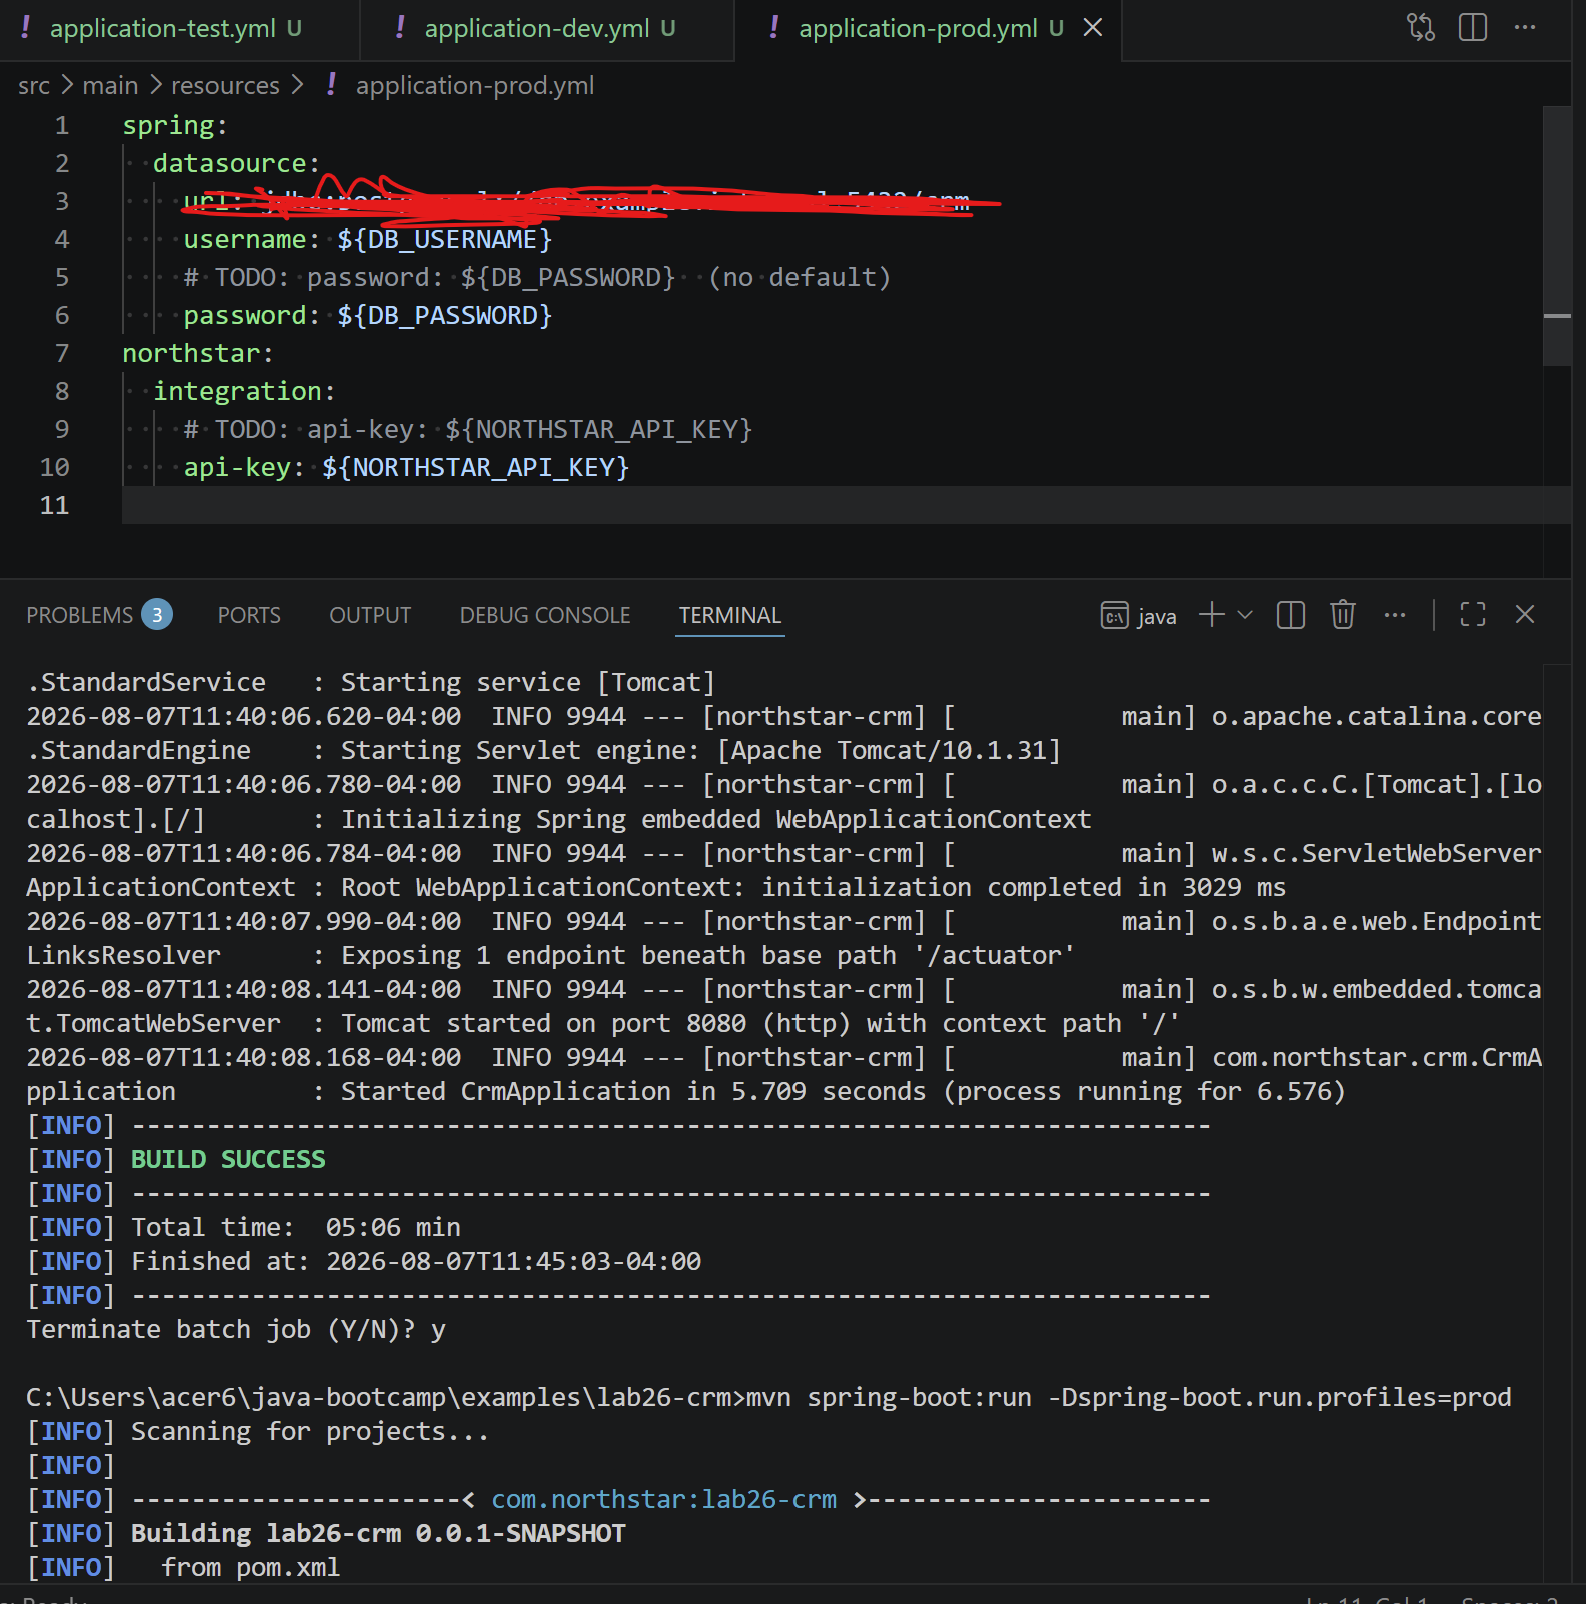
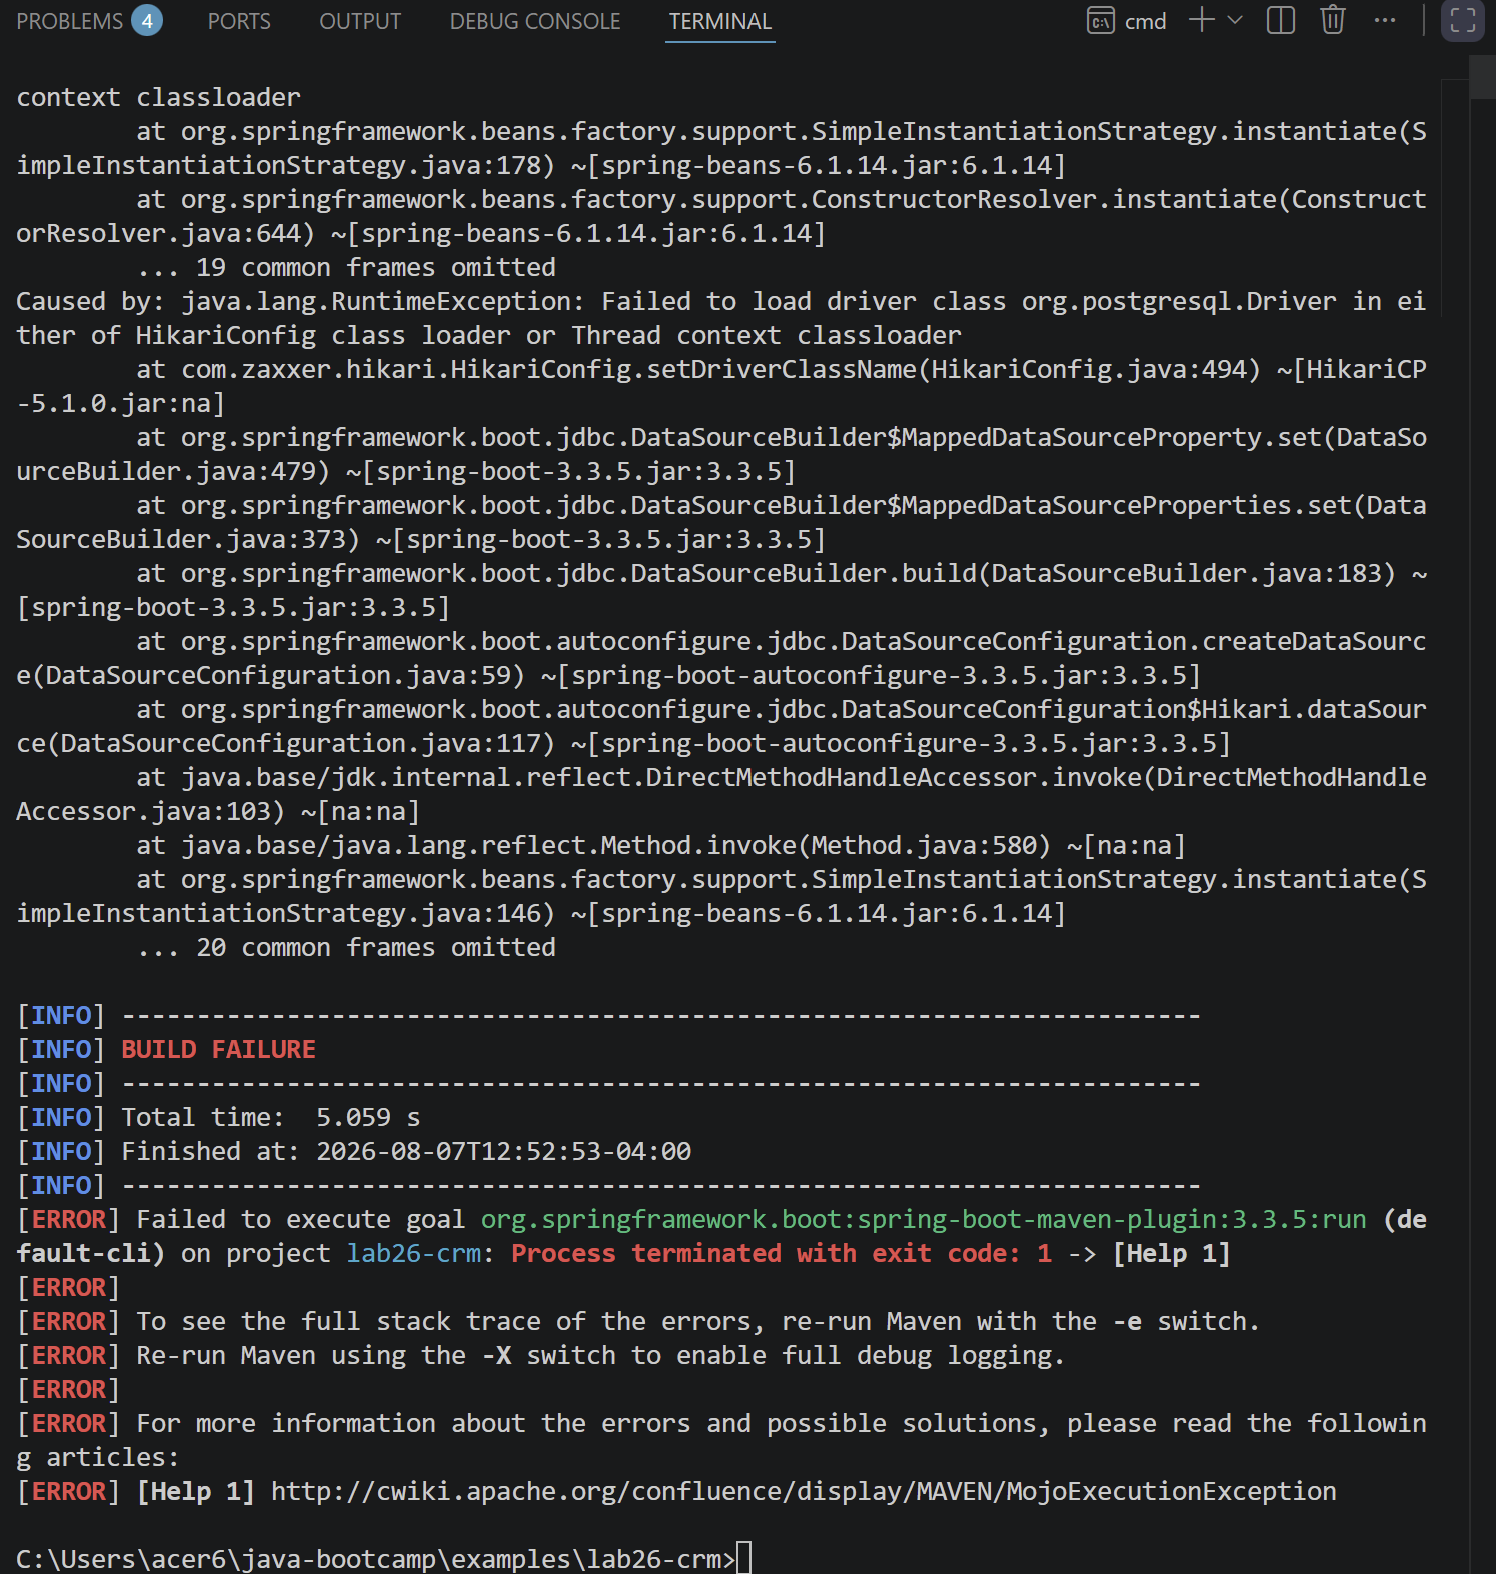
change .gitignore

diff --git a/examples/lab26-crm/src/main/java/com/northstar/crm/CrmApplication.java b/examples/lab26-crm/src/main/java/com/northstar/crm/CrmApplication.java
@@ -2,7 +2,12 @@ package com.northstar.crm;
 
 import org.springframework.boot.SpringApplication;
 import org.springframework.boot.autoconfigure.SpringBootApplication;
+import org.springframework.boot.context.properties.EnableConfigurationProperties;
 
+import com.northstar.crm.config.NorthstarIntegrationProperties;
+
+
+@EnableConfigurationProperties(NorthstarIntegrationProperties.class)
 @SpringBootApplication
 public class CrmApplication {
   public static void main(String[] args) {

diff --git a/examples/lab26-crm/src/main/java/com/northstar/crm/config/NorthstarIntegrationProperties.java b/examples/lab26-crm/src/main/java/com/northstar/crm/config/NorthstarIntegrationProperties.java
@@ -4,6 +4,7 @@ import org.springframework.boot.context.properties.ConfigurationProperties;
 
 // TODO: add @ConfigurationProperties(prefix = "northstar.integration")
 // TODO: enable via @EnableConfigurationProperties or @ConfigurationPropertiesScan on CrmApplication
+@ConfigurationProperties(prefix = "northstar.integration")
 public class NorthstarIntegrationProperties {
   private String apiBaseUrl;
   private int connectTimeoutMs = 2000;

diff --git a/examples/lab26-crm/docs/profile-notes.md b/examples/lab26-crm/docs/profile-notes.md
@@ -1,4 +1,6 @@
 # Lab 26 — Profile / precedence notes
 
 1. TODO: which source won in your override experiment (CLI > env > profile YAML > base)?
+CLI = 1234 Env = 9999 base = 100. CLI won
 2. TODO: evidence that prod refuses missing secrets
+does not compile in step 4
